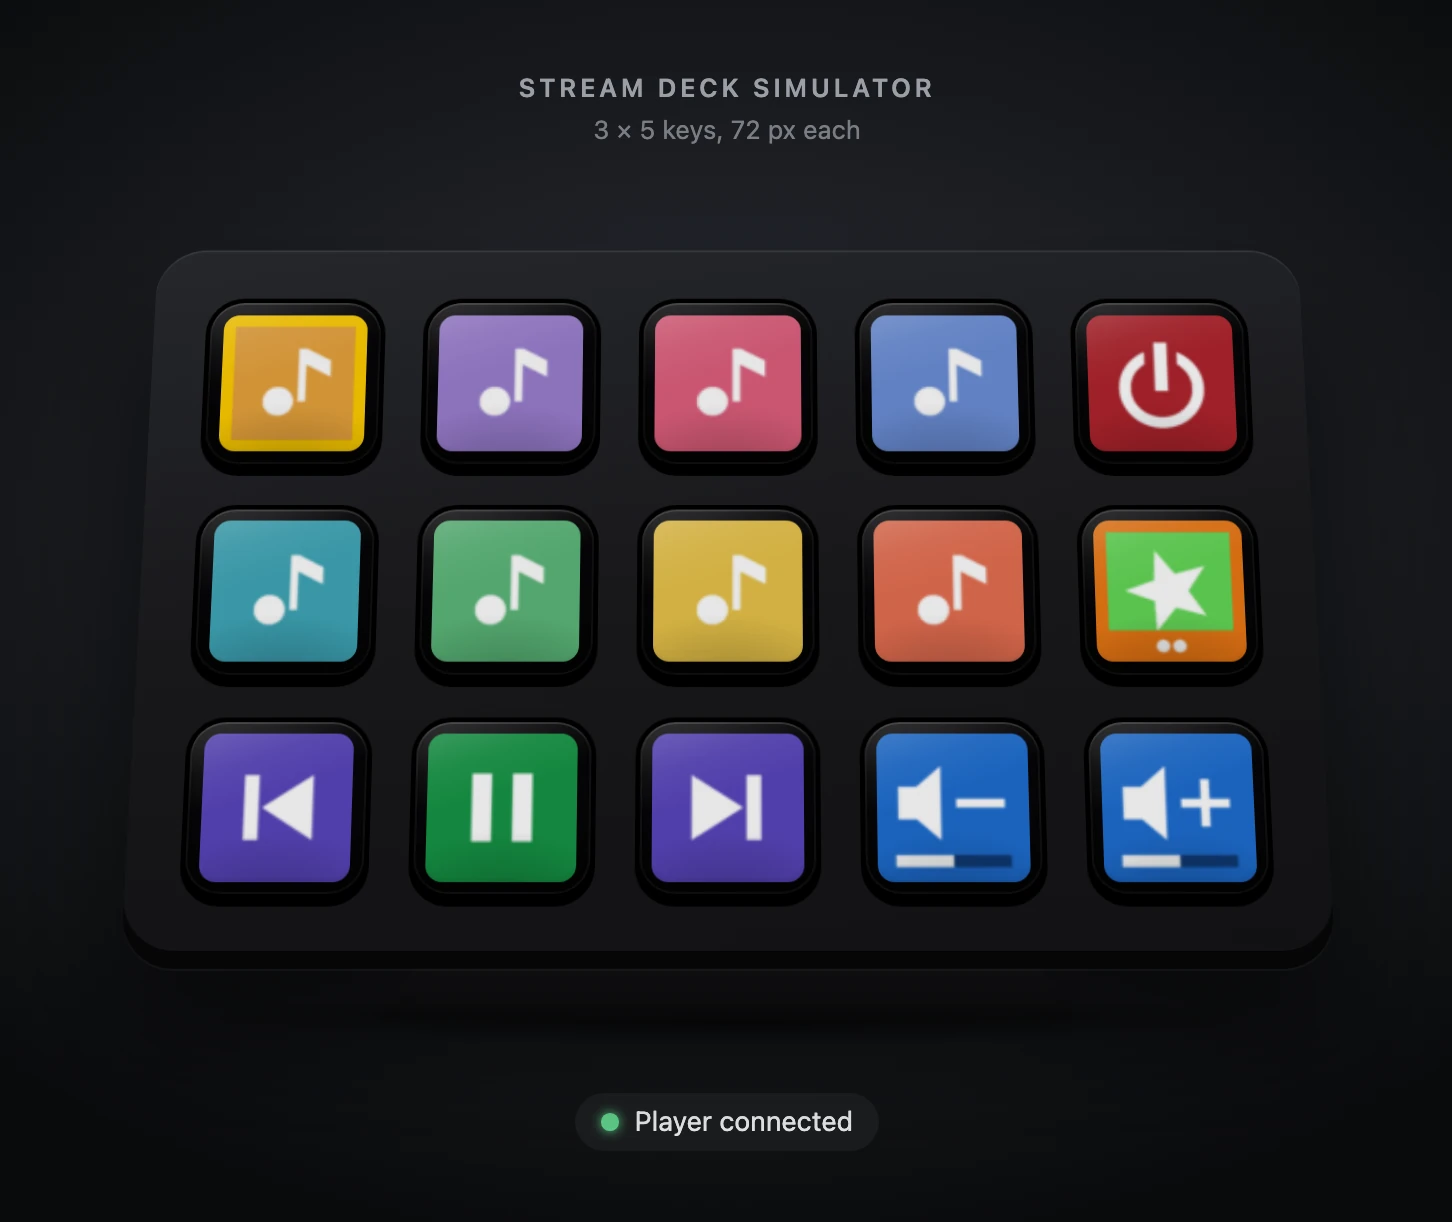
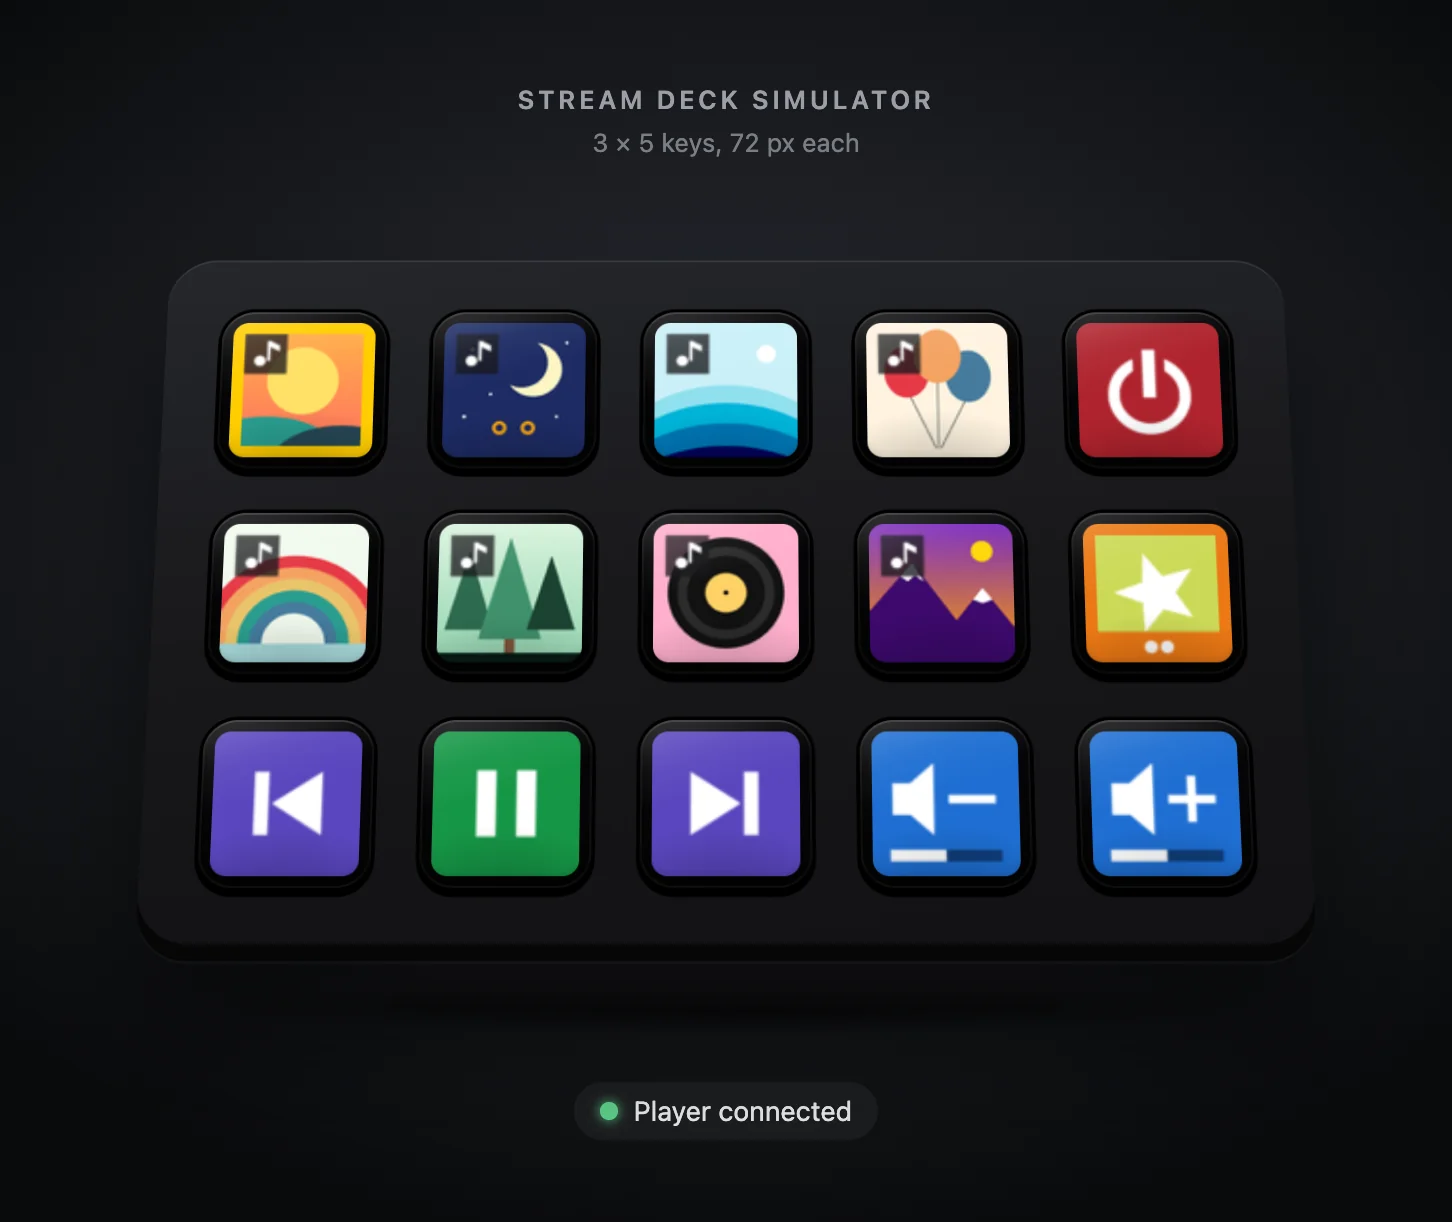
docs: show album covers in the README screenshot
The screenshot showed only kind glyphs, so nothing told a reader that a key can show the album's cover. The covers in it are made up.

diff --git a/README.md b/README.md
@@ -16,9 +16,9 @@ receiver, a Spotify Connect device, or the computer's own sound output.
 It runs on Linux (a Raspberry Pi next to the speaker, or any PC) and on
 macOS. Written in Rust.
 
-![The web Stream Deck simulator: eight album keys, the first one playing, a
-power key, the next-shelf key, and the playback and volume keys
-below](docs/images/simulator.webp)
+![The web Stream Deck simulator: eight albums shown by their covers, the
+first one playing, a power key, the next-shelf key, and the playback and
+volume keys below](docs/images/simulator.webp)
 
 ```text
  [A][A][A][A][⏻]     A = an album, book or story: press to play, again to pause
@@ -37,8 +37,9 @@ below](docs/images/simulator.webp)
 - 📚 **Shelves:** each source is a shelf; one key moves to the next shelf, and
   a shelf with more items than keys pages. Decks from the 6-key Mini to the
   36-key Plus XL work; the layout adapts.
-- 🎨 **Pictures, no text:** album covers, a `key.png` of your own, or a big
-  glyph of the kind (note, book, star, radio waves, microphone) on a colour.
+- 🎨 **Pictures, no text:** album covers (`cover.jpg`, `folder.jpg` or any
+  jpg or png in the album folder), a `key.png` of your own, or a big glyph
+  of the kind (note, book, star, radio waves, microphone) on a colour.
   Small badges tell the kinds apart, a bar shows how far a book got, and a
   dot marks podcast episodes not heard yet.
 - 🔖 **Books resume:** audiobooks and podcast episodes play on from where they
